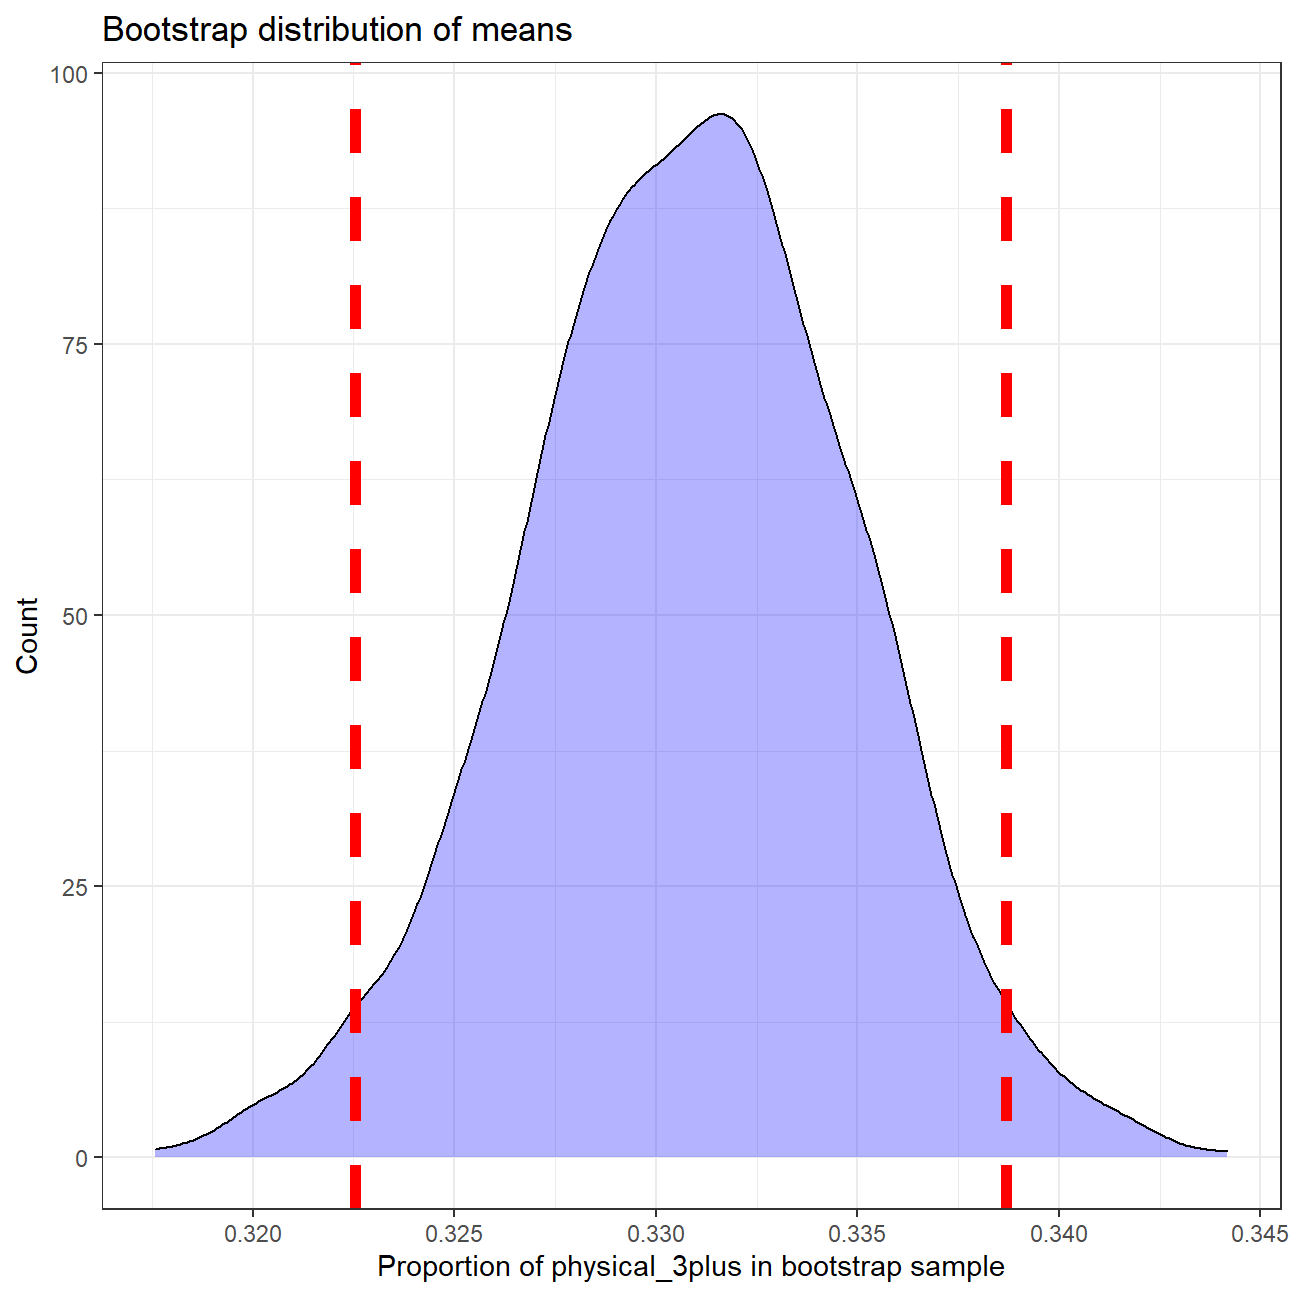
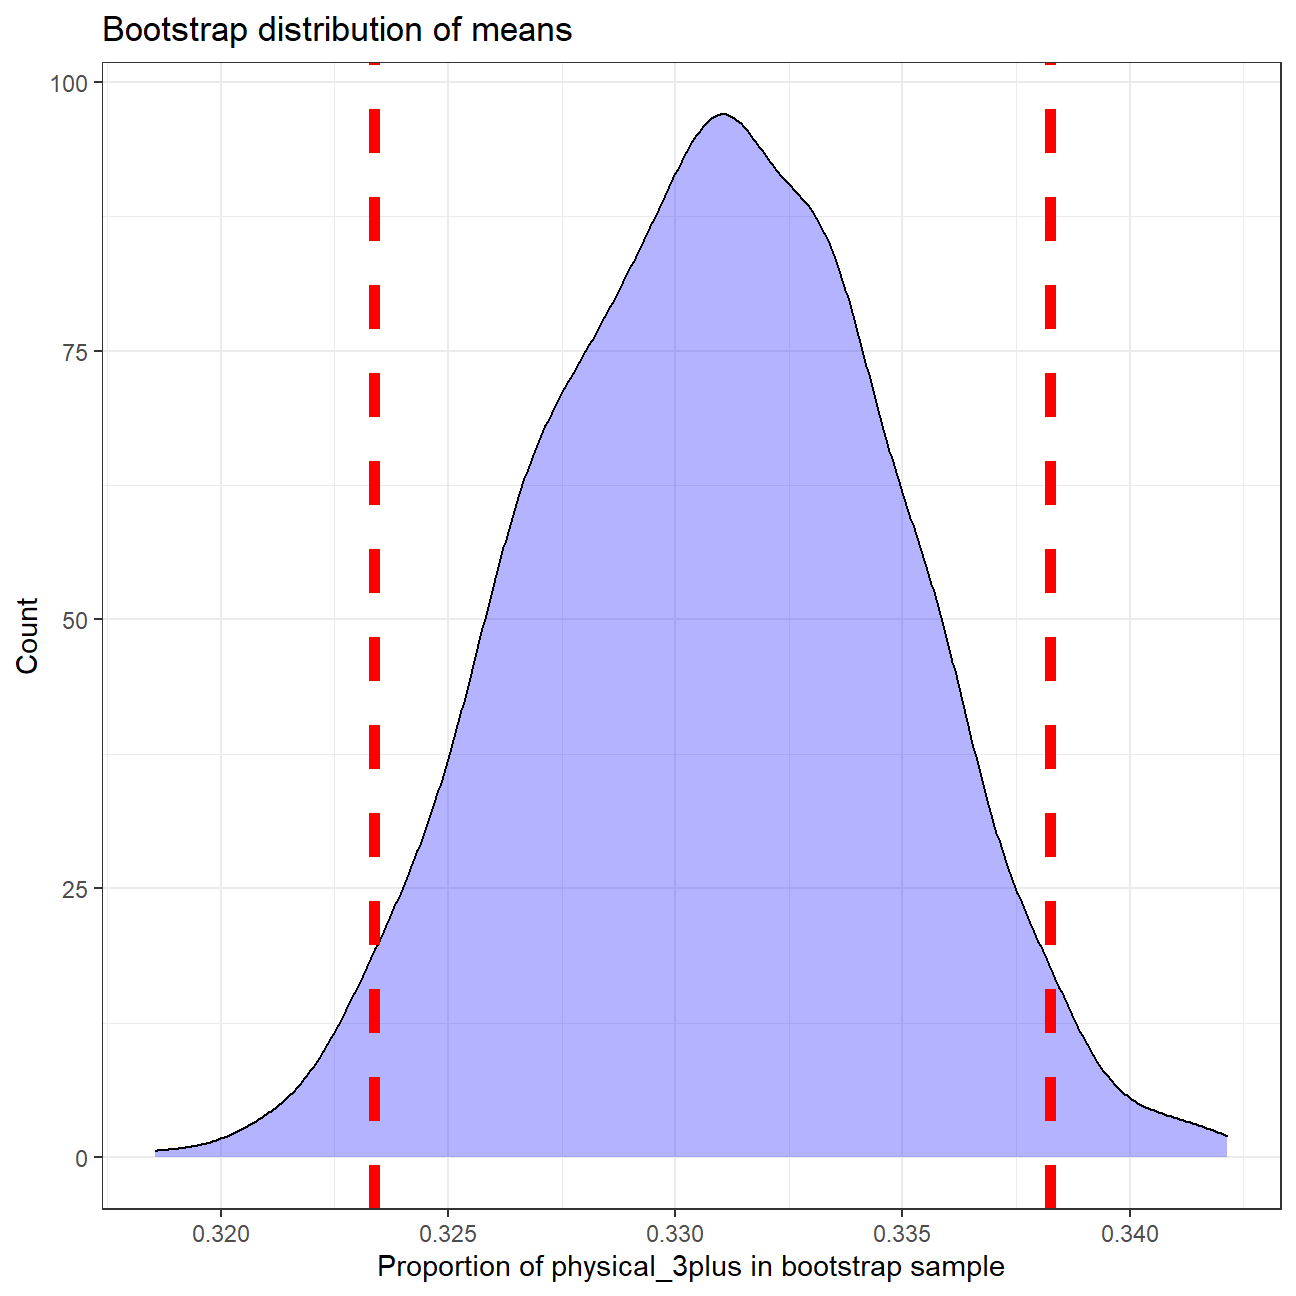
changed pictures of blogs site

diff --git a/public/blogs/index.html b/public/blogs/index.html
@@ -71,7 +71,7 @@
                     <div class="inner">
 			
                         <span class="image">
-                            <img src="/img/pic02.jpg" alt="" />
+                            <img src="/img/banner.jpg" alt="" />
                         </span>
 			
                         <header class="major">
@@ -89,7 +89,7 @@ More to come soon!</p>
                     
                     <section>
                         <a href="/blogs/2016_us_election/" class="image">
-							<img src="/img/blogs/pic07.jpg" alt="" data-position="center center" />
+							<img src="/img/blogs/election.jpg" alt="" data-position="center center" />
 						</a>
                         <div class="content">
                             <div class="inner">
@@ -105,93 +105,8 @@ More to come soon!</p>
                     </section>
                     
                     <section>
-                        <a href="/blogs/blog5/" class="image">
-							<img src="/img/blogs/pic07.jpg" alt="" data-position="center center" />
-						</a>
-                        <div class="content">
-                            <div class="inner">
-                                <header class="major">
-                                    <h3>Mask acceptance</h3>
-                                </header>
-                                <p>This looks like a map or smthg idk</p>
-                                <ul class="actions">
-                                    <li><a href="/blogs/blog5/" class="button">Learn more</a></li>
-                                </ul>
-                            </div>
-                        </div>
-                    </section>
-                    
-                    <section>
-                        <a href="/blogs/aliquam/" class="image">
-							<img src="/img/blogs/pic07.jpg" alt="" data-position="center center" />
-						</a>
-                        <div class="content">
-                            <div class="inner">
-                                <header class="major">
-                                    <h3>Aliquam</h3>
-                                </header>
-                                <p>Nullam et orci eu lorem consequat tincidunt vivamus et sagittis magna sed nunc rhoncus condimentum sem. In efficitur ligula tate urna. Maecenas massa sed magna lacinia magna pellentesque lorem ipsum dolor. Nullam et orci eu lorem consequat tincidunt. Vivamus et sagittis tempus.</p>
-                                <ul class="actions">
-                                    <li><a href="/blogs/aliquam/" class="button">Learn more</a></li>
-                                </ul>
-                            </div>
-                        </div>
-                    </section>
-                    
-                    <section>
-                        <a href="/blogs/tempus/" class="image">
-							<img src="/img/blogs/pic08.jpg" alt="" data-position="center center" />
-						</a>
-                        <div class="content">
-                            <div class="inner">
-                                <header class="major">
-                                    <h3>Tempus</h3>
-                                </header>
-                                <p>Nullam et orci eu lorem consequat tincidunt vivamus et sagittis magna sed nunc rhoncus condimentum sem. In efficitur ligula tate urna. Maecenas massa sed magna lacinia magna pellentesque lorem ipsum dolor. Nullam et orci eu lorem consequat tincidunt. Vivamus et sagittis tempus.</p>
-                                <ul class="actions">
-                                    <li><a href="/blogs/tempus/" class="button">Learn more</a></li>
-                                </ul>
-                            </div>
-                        </div>
-                    </section>
-                    
-                    <section>
-                        <a href="/blogs/magna/" class="image">
-							<img src="/img/blogs/pic09.jpg" alt="" data-position="center center" />
-						</a>
-                        <div class="content">
-                            <div class="inner">
-                                <header class="major">
-                                    <h3>Magna</h3>
-                                </header>
-                                <p>Lorem Etiam Nullam</p>
-                                <ul class="actions">
-                                    <li><a href="/blogs/magna/" class="button">Learn more</a></li>
-                                </ul>
-                            </div>
-                        </div>
-                    </section>
-                    
-                    <section>
-                        <a href="/blogs/ipsum/" class="image">
-							<img src="/img/blogs/pic10.jpg" alt="" data-position="center center" />
-						</a>
-                        <div class="content">
-                            <div class="inner">
-                                <header class="major">
-                                    <h3>Ipsum</h3>
-                                </header>
-                                <p></p>
-                                <ul class="actions">
-                                    <li><a href="/blogs/ipsum/" class="button">Learn more</a></li>
-                                </ul>
-                            </div>
-                        </div>
-                    </section>
-                    
-                    <section>
                         <a href="/blogs/health_data/" class="image">
-							<img src="/img/blogs/pic07.jpg" alt="" data-position="center center" />
+							<img src="/img/blogs/volleyball.jpg" alt="" data-position="center center" />
 						</a>
                         <div class="content">
                             <div class="inner">

diff --git a/public/blogs/health_data/index.html b/public/blogs/health_data/index.html
@@ -74,7 +74,7 @@
                                 <h1>Analyzing US highschool health</h1>
                             </header>
                             
-                                <span class="image main"><img src="/img/blogs/pic07.jpg" alt="" /></span>
+                                <span class="image main"><img src="/img/blogs/volleyball.jpg" alt="" /></span>
                             
                             
 
@@ -86,7 +86,7 @@
 date: “2020-20-09”
 description: Analyzing health patterns among US highschoolers
 draft: false
-image: pic07.jpg
+image: volleyball.jpg
 keywords: ""
 slug: health_data
 title: Analyzing US highschool health</p>
@@ -385,7 +385,7 @@ percentile_ci</code></pre>
 <pre><code>## # A tibble: 1 x 2
 ##   lower_ci upper_ci
 ##      &lt;dbl&gt;    &lt;dbl&gt;
-## 1    0.323    0.339</code></pre>
+## 1    0.323    0.338</code></pre>
 <pre class="r"><code>not_active_plot &lt;- ggplot(not_active_ci, aes(x = stat)) +
   geom_density(fill = &quot;blue&quot;, alpha = 0.3) +
   labs(title= &quot;Bootstrap distribution of means&quot;,

diff --git a/content/blogs/blog8_health_data.html b/content/blogs/blog8_health_data.html
@@ -6,7 +6,7 @@ categories:
 date: "2020-20-09"
 description: Analyzing health patterns among US highschoolers
 draft: false
-image: pic07.jpg
+image: volleyball.jpg
 keywords: ""
 slug: health_data
 title: Analyzing US highschool health
@@ -23,7 +23,7 @@ title: Analyzing US highschool health
 date: “2020-20-09”
 description: Analyzing health patterns among US highschoolers
 draft: false
-image: pic07.jpg
+image: volleyball.jpg
 keywords: ""
 slug: health_data
 title: Analyzing US highschool health</p>
@@ -322,7 +322,7 @@ percentile_ci</code></pre>
 <pre><code>## # A tibble: 1 x 2
 ##   lower_ci upper_ci
 ##      &lt;dbl&gt;    &lt;dbl&gt;
-## 1    0.323    0.339</code></pre>
+## 1    0.323    0.338</code></pre>
 <pre class="r"><code>not_active_plot &lt;- ggplot(not_active_ci, aes(x = stat)) +
   geom_density(fill = &quot;blue&quot;, alpha = 0.3) +
   labs(title= &quot;Bootstrap distribution of means&quot;,

diff --git a/public/index.html b/public/index.html
@@ -145,7 +145,7 @@
     We build up on this to create a final model of 7 covariates (property type, room type, review ratings scores,  cancellation policy,  how many people the property accommodates, which neighbourhood the property is in and if the property has air conditioning installed. 
     This model achieves a **R squared** of **0.512**. Finally, we use this model to make a prediction on unseen problem.</p>
             <ul class="actions">
-                <li><a href="/blogs" class="button next">Have a look!</a></li>
+                <li><a href="/blogs/airbnb_cape_town" class="button next">Have a look!</a></li>
             </ul>
         </div>
     </section>

diff --git a/public/blogs/2016_us_election/index.html b/public/blogs/2016_us_election/index.html
@@ -74,7 +74,7 @@
                                 <h1>2016 US Election</h1>
                             </header>
                             
-                                <span class="image main"><img src="/img/blogs/pic07.jpg" alt="" /></span>
+                                <span class="image main"><img src="/img/blogs/election.jpg" alt="" /></span>
                             
                             
 

diff --git a/content/blogs/blog9_2016_us_election.html b/content/blogs/blog9_2016_us_election.html
@@ -5,7 +5,7 @@ categories:
 date: "2020-09-08"
 description: Looking at Clintons and Trumps campaign contributions in the time leading up to the 2016 US elections 
 draft: false
-image: pic07.jpg
+image: election.jpg
 keywords: ""
 slug: 2016_us_election
 title: 2016 US Election

diff --git a/content/blogs/_index.md b/content/blogs/_index.md
@@ -1,7 +1,7 @@
 ---
 date: "2017-10-31T22:27:21-05:00"
 draft: false
-image: pic02.jpg
+image: banner.jpg
 slug: blogs
 title: MY ANALYTICS PROJECTS
 ---
